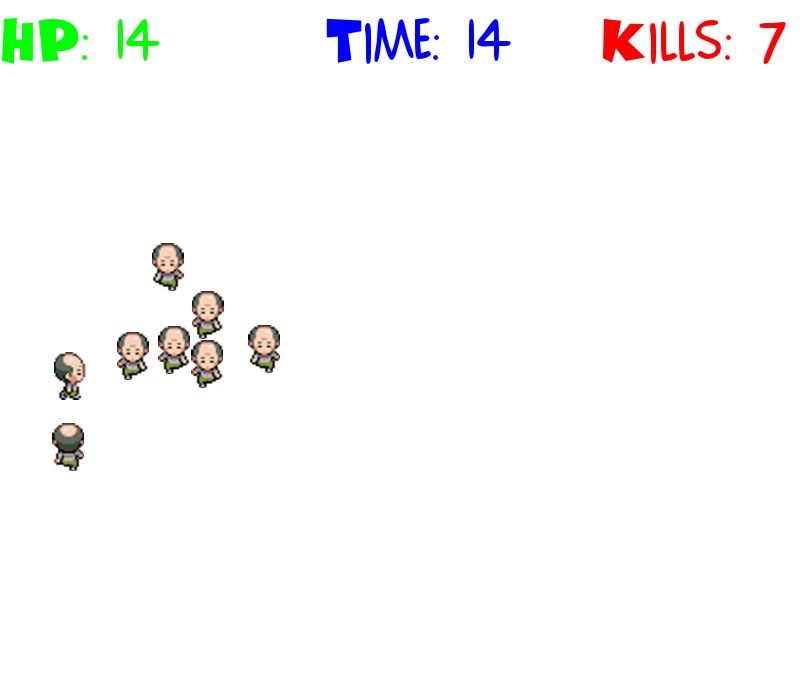
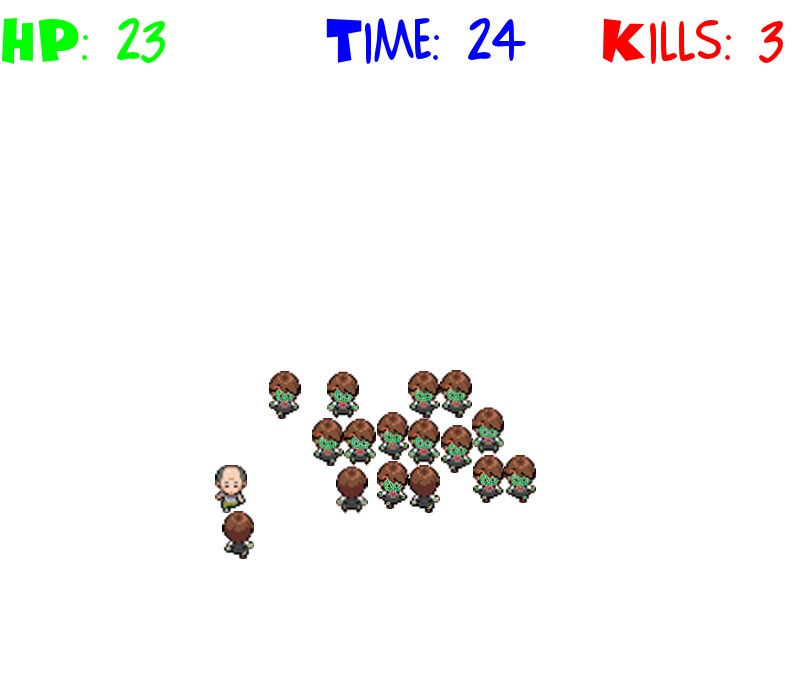
Convert old men to zombie sprites

diff --git a/src/Enemy.cpp b/src/Enemy.cpp
@@ -7,6 +7,65 @@ const float Enemy::DEATH_DELAY = 0.6;
 
 Enemy::Enemy(int x, int y, int level) : Entity(level, level)
 {
+  if (!down[0].LoadFromFile("../resources/sprites/MFront1.png")) {
+    std::cout << "Error loading image" << std::endl;
+  }
+
+  if (!down[1].LoadFromFile("../resources/sprites/MFront2.png")) {
+    std::cout << "Error loading image" << std::endl;
+  }
+
+  if (!down[2].LoadFromFile("../resources/sprites/MFront3.png")) {
+    std::cout << "Error loading image" << std::endl;
+  }
+
+  if (!up[0].LoadFromFile("../resources/sprites/MBack1.png")) {
+    std::cout << "Error loading image" << std::endl;
+  }
+
+  if (!up[1].LoadFromFile("../resources/sprites/MBack2.png")) {
+    std::cout << "Error loading image" << std::endl;
+  }
+
+  if (!up[2].LoadFromFile("../resources/sprites/MBack3.png")) {
+    std::cout << "Error loading image" << std::endl;
+  }
+
+  if (!right[0].LoadFromFile("../resources/sprites/MRight1.png")) {
+    std::cout << "Error loading image" << std::endl;
+  }
+
+  if (!right[1].LoadFromFile("../resources/sprites/MRight2.png")) {
+    std::cout << "Error loading image" << std::endl;
+  }
+
+  if (!right[2].LoadFromFile("../resources/sprites/MRight3.png")) {
+    std::cout << "Error loading image" << std::endl;
+  }
+
+  if (!left[0].LoadFromFile("../resources/sprites/MLeft1.png")) {
+    std::cout << "Error loading image" << std::endl;
+  }
+
+  if (!left[1].LoadFromFile("../resources/sprites/MLeft2.png")) {
+    std::cout << "Error loading image" << std::endl;
+  }
+
+  if (!left[2].LoadFromFile("../resources/sprites/MLeft3.png")) {
+    std::cout << "Error loading image" << std::endl;
+  }
+
+  for(unsigned int i = 0; i < 3; ++i)
+    down[i].CreateMaskFromColor(sf::Color(255, 255, 255));
+  for(unsigned int i = 0; i < 3; ++i)
+    up[i].CreateMaskFromColor(sf::Color(255, 255, 255));
+  for(unsigned int i = 0; i < 3; ++i)
+    left[i].CreateMaskFromColor(sf::Color(255, 255, 255));
+  for(unsigned int i = 0; i < 3; ++i)
+    right[i].CreateMaskFromColor(sf::Color(255, 255, 255));
+
+
+  avatar.SetImage(down[0]);
   avatar.SetPosition(x, y); 
   speed *= 1;
   facingRight = true;
